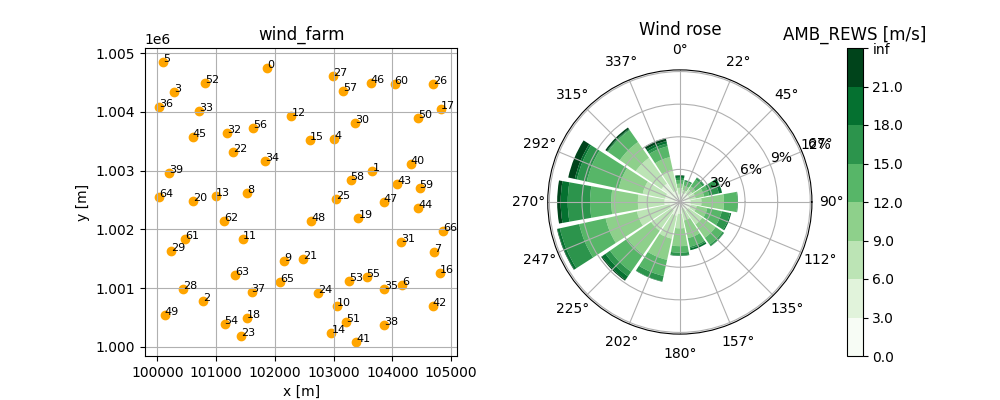
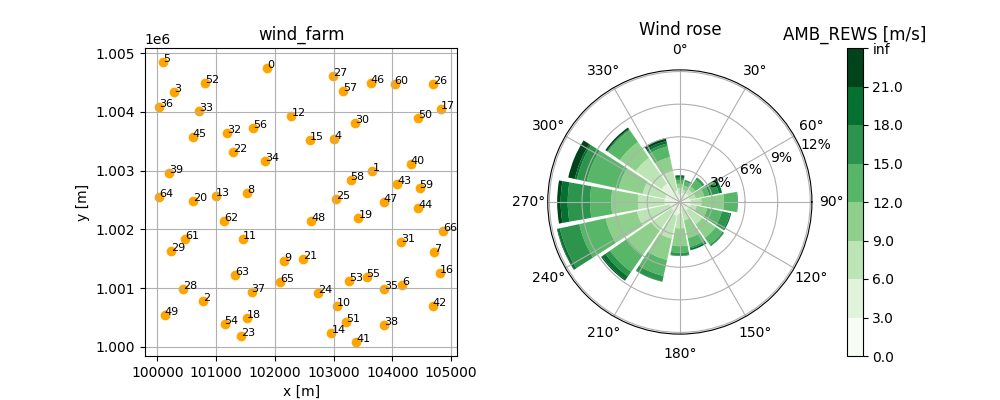
dev rose plot

diff --git a/foxes/output/rose_plot.py b/foxes/output/rose_plot.py
@@ -273,7 +273,7 @@ class RosePlotOutput(Output):
         freq_delta = int(freq_delta)
         freq_ticks = np.arange(0, fmax+freq_delta/2, freq_delta, dtype=np.int32)[1:]
 
-        tksl = np.arange(0,360,wd_delta)
+        tksl = np.arange(0,360,max(wd_delta, 30))
         tks = np.radians(np.mod(90 - tksl, 360))
         ax.set_xticks(tks, [f"{int(d)}°" for d in tksl])
         ax.set_yticks(freq_ticks, [f"{f}%" for f in freq_ticks])
@@ -561,7 +561,7 @@ class WindRoseBinPlot(Output):
 
         img = ax.pcolormesh(x, y, z, **prgs)
 
-        tksl = np.arange(0,360,wd_delta)
+        tksl = np.arange(0,360,max(wd_delta, 30))
         tks = np.radians(np.mod(90 - tksl, 360))
         ax.set_xticks(tks, [f"{d}°" for d in tksl])
         ax.set_yticks(ws_bins)
